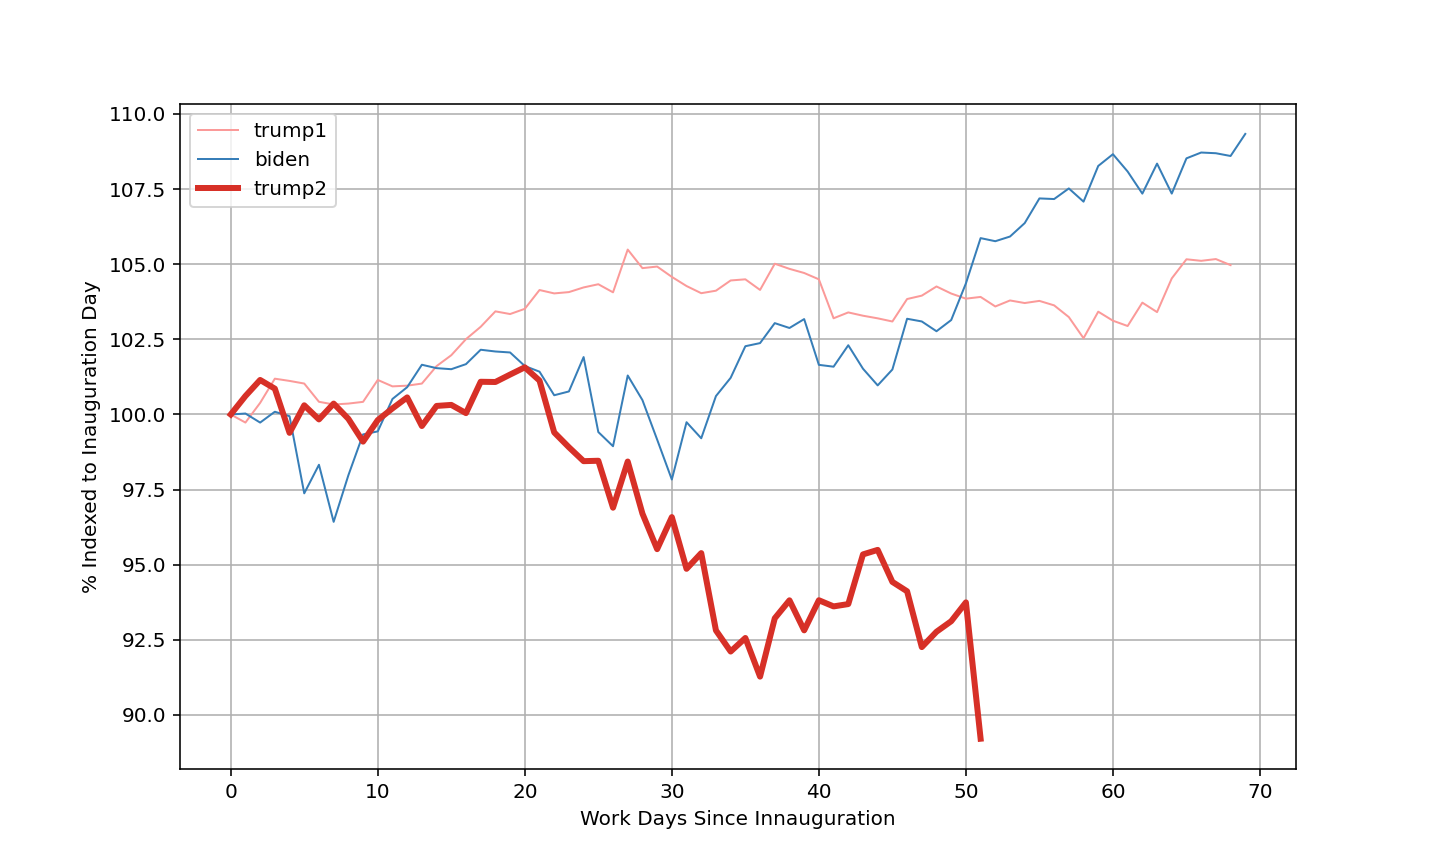
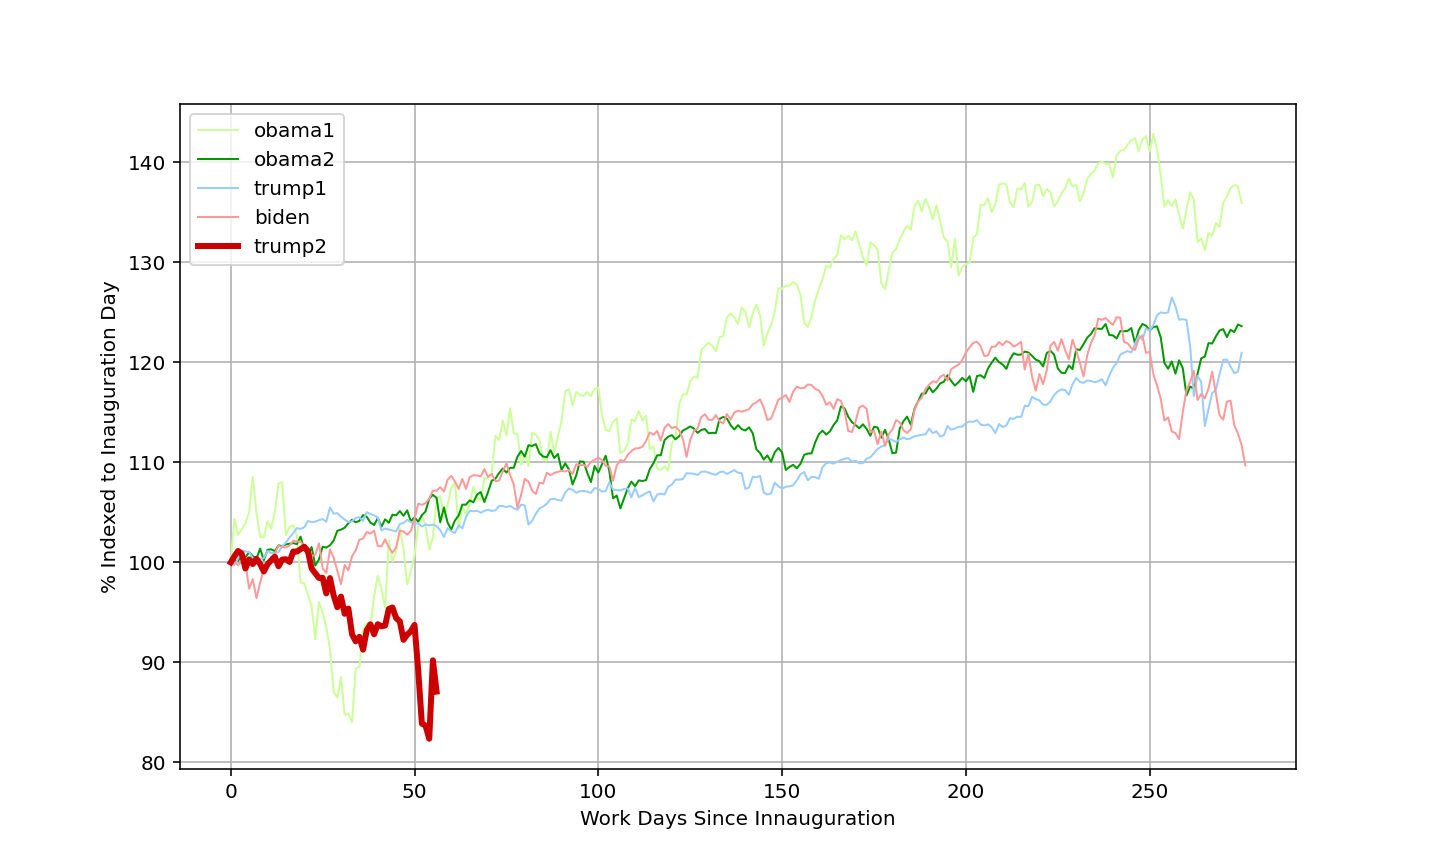
Updates to format and inclusion of obama data

diff --git a/economy_main_inLine.py b/economy_main_inLine.py
@@ -44,24 +44,25 @@ def plot_column(ax, x, y, xlabel, ylabel, line_color, legend_label, width):
     ax.grid(True)
 
 ################################### Stock Market Data #########################
-# Stock data presentation
-#     - Looking at the closing price of the S&P500 over the course of a presidency 
-#     can help understand how the market is affected by presidential policy
-#     - The S&P500 is considered an index market for the general state of the 
-#     market as a whole
-#     - Tracking the markets closing costs over time, indexed to inauguration day
-#     can help to understand how the market changes over time
-    
-#     *analysis ideas???
-#     - Determine how presidential political affiliation impacts overall market
-#     progress: 
-#         NULL HYPOTHESES
-#         *H0-political affiliation does not predict overall change in market price
-#         from beginning to end of a presidential term
-#         *H1-politial affilitation does not predict the overall rate of change in 
-#         market price over the course of a presidency
-        
+
 def get_asset(days_out, assets, term_names, start_terms, end_terms):
+    # Stock data presentation
+    #     - Looking at the closing price of the S&P500 over the course of a presidency 
+    #     can help understand how the market is affected by presidential policy
+    #     - The S&P500 is considered an index market for the general state of the 
+    #     market as a whole
+    #     - Tracking the markets closing costs over time, indexed to inauguration day
+    #     can help to understand how the market changes over time
+        
+    #     *analysis ideas???
+    #     - Determine how presidential political affiliation impacts overall market
+    #     progress: 
+    #         NULL HYPOTHESES
+    #         *H0-political affiliation does not predict overall change in market price
+    #         from beginning to end of a presidential term
+    #         *H1-politial affilitation does not predict the overall rate of change in 
+    #         market price over the course of a presidency
+    
     # Specify how many days out from inauguration we want to see stock data
     # days_out = 100 # number of work days in a year
     
@@ -97,28 +98,26 @@ def get_asset(days_out, assets, term_names, start_terms, end_terms):
     return asset_dict
 
 ############################## Consumer Price Index Data ######################
-# CUUR0000SA0: This refers to the CPI-U (Consumer Price Index for All Urban 
-# Consumers) for all items in the U.S. city average. The "U" indicates that the 
-# data is not seasonally adjusted.
-
-# For seasonally adjusted CPI data from the BLS, you should use series tags 
-# where the third character is "S" (indicating seasonally adjusted data). 
-# For example: CUUS0000SA0: Seasonally adjusted CPI-U 
-# (Consumer Price Index for All Urban Consumers) for all items in the U.S. 
-# city average.
-
-# SUUR0000SA0: This represents the Chained CPI-U (Consumer Price Index for All 
-# Urban Consumers) for all items in the U.S. city average. The "U" also indicates 
-# that the data is not seasonally adjusted.
-
-# month list
-months = ['January','February','March',
+def get_CPI(start_terms, end_terms):
+    # CUUR0000SA0: This refers to the CPI-U (Consumer Price Index for All Urban 
+    # Consumers) for all items in the U.S. city average. The "U" indicates that the 
+    # data is not seasonally adjusted.
+    
+    # For seasonally adjusted CPI data from the BLS, you should use series tags 
+    # where the third character is "S" (indicating seasonally adjusted data). 
+    # For example: CUUS0000SA0: Seasonally adjusted CPI-U 
+    # (Consumer Price Index for All Urban Consumers) for all items in the U.S. 
+    # city average.
+    
+    # SUUR0000SA0: This represents the Chained CPI-U (Consumer Price Index for All 
+    # Urban Consumers) for all items in the U.S. city average. The "U" also indicates 
+    # that the data is not seasonally adjusted.
+    
+    # month list
+    months = ['January','February','March',
              'April','May','June','July',
              'August','September','October',
              'November','December']
-
-def get_CPI(start_terms, end_terms):
-    
     
     for i, start_date in enumerate(start_terms):
         start_year = start_date.split('-')[0]
@@ -159,7 +158,6 @@ def get_CPI(start_terms, end_terms):
         # output.write (x.get_string())
         # output.close()
         
-
 def economy_track(days_out, assets, term_names, start_terms, end_terms, x_label, y_label):
     ###########################################################################
     # Extract data for the S&P500
@@ -173,11 +171,15 @@ def economy_track(days_out, assets, term_names, start_terms, end_terms, x_label,
     for asset in asset_dict.keys():
         asset_df = asset_dict[asset]
     # plot color list
-    color_list = ['Light Red','Blue','Red']
+    color_list = ["light_green","dark_green",
+                "light_blue",
+                "light_red","dark_red"
+                ]
     
     # Create a figure and axes
     fig, ax = plt.subplots(figsize=(10, 6))
-    
+    plt.style.use('tableau-colorblind10')
+
     for i, term_name in enumerate(term_names):
         legend_label = term_name
         # x_label = 'Work Days Since Innauguration'
@@ -202,40 +204,29 @@ def economy_track(days_out, assets, term_names, start_terms, end_terms, x_label,
     
     ###########################################################################
     # Extract data for CPI-U
-    
     get_CPI_Udata.get_CPI(start_terms, end_terms)
-    
     
 if __name__ == "__main__":
     # set input parameters
     today = dt.today()
     today_str = today.strftime('%Y-%m-%d')
-    term_names =['obama1', 
-                 'obama2', 
-                 'trump1', 
-                 'biden', 
-                 'trump2']
-    start_terms = ['2009-01-20',
-                   '2013-01-20',
-                   '2017-01-20',
-                   '2021-01-20',
-                   '2025-01-20']
-    end_terms = ['2013-01-20',
-                 '2017-01-20',
-                 '2021-01-20',
-                 '2025-01-20',
-                 today_str]
+    
+    ############################### Asset figure ##############################
+    # specify terms of interest
+    term_names =['obama1','obama2','trump1','biden','trump2']
+    start_terms = ['2009-01-20','2013-01-20','2017-01-20','2021-01-20','2025-01-20']
+    end_terms = ['2013-01-20','2017-01-20','2021-01-20','2025-01-20',today_str]
+    
+    # specify asset of interest
     assets = ['^GSPC']
+    
+    # plotting details
     x_label = 'Work Days Since Innauguration'
     y_label = '% Indexed to Inauguration Day'
-    days_out = 100
+    days_out = 400
     
     # call main function
-    economy_track(days_out, 
-                  assets, 
-                  term_names, 
-                  start_terms, 
-                  end_terms, 
-                  x_label, 
-                  y_label)
+    economy_track(days_out, assets, term_names, 
+                  start_terms, end_terms, 
+                  x_label, y_label)
     # extract_asset()
